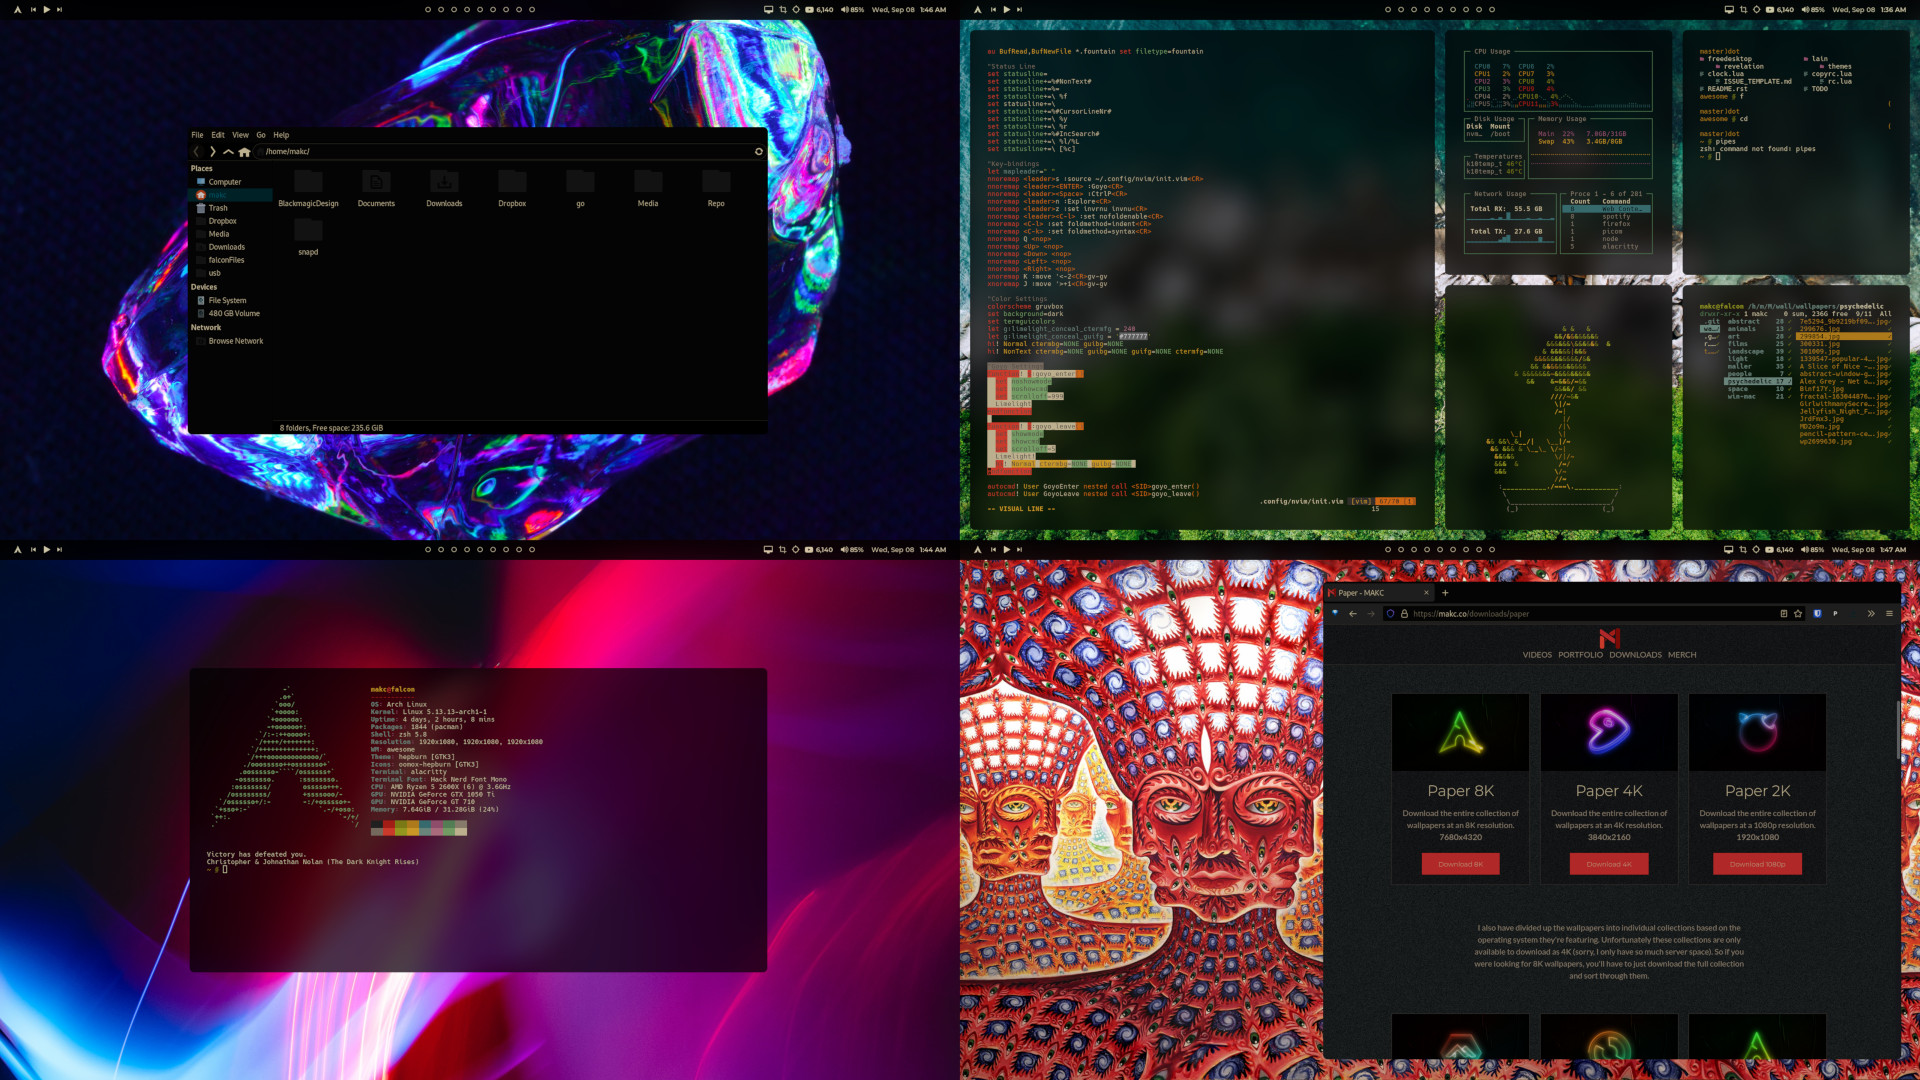
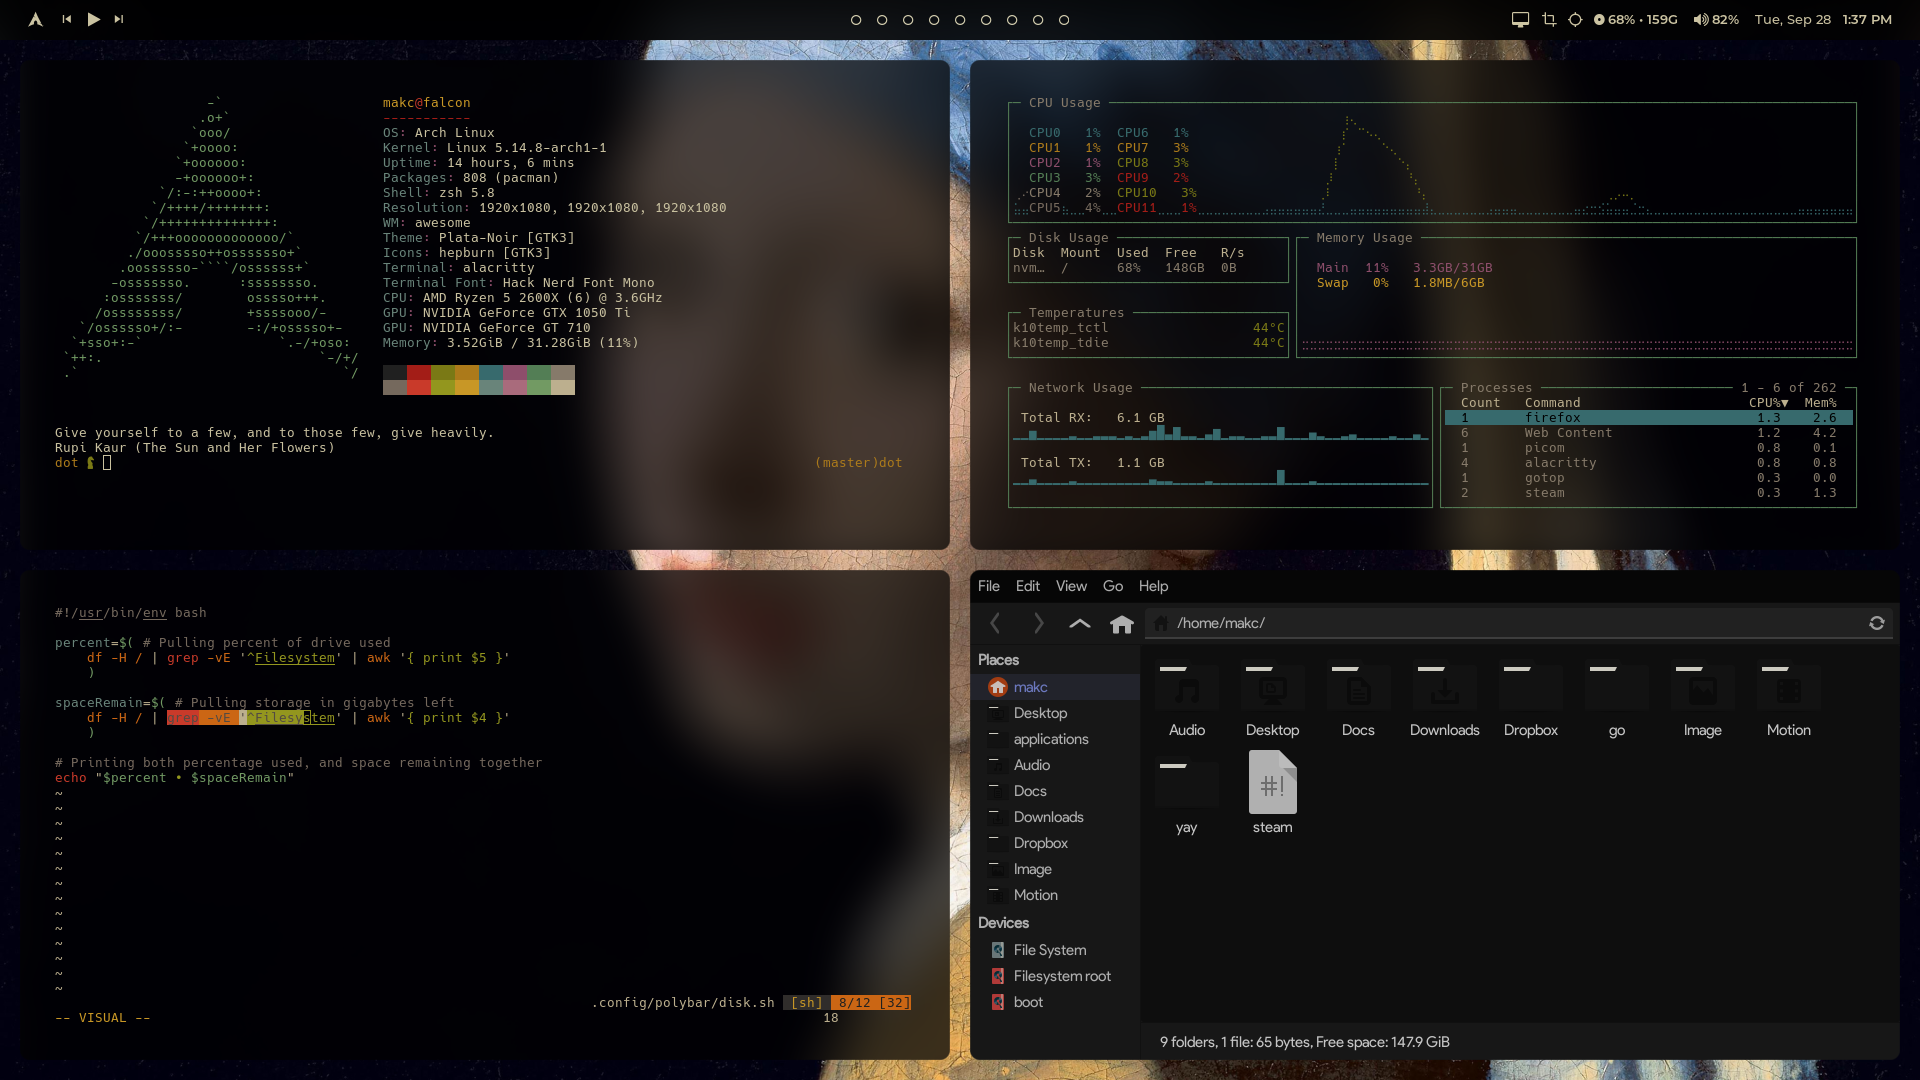
Updating preview image, neofetch info

diff --git a/README.md b/README.md
@@ -23,25 +23,25 @@ Currently, my main system is Arch Linux running on a Ryzen 5 2600X (6-core) CPU 
                    -`                    makc@falcon
                   .o+`                   -----------
                  `ooo/                   OS: Arch Linux
-                `+oooo:                  Kernel: Linux 5.12.10-arch1-1
-               `+oooooo:                 Uptime: 22 hours, 16 mins
-               -+oooooo+:                Packages: 1021 (pacman)
+                `+oooo:                  Kernel: Linux 5.14.8-arch1-1
+               `+oooooo:                 Uptime: 14 hours, 6 mins
+               -+oooooo+:                Packages: 808 (pacman)
              `/:-:++oooo+:               Shell: zsh 5.8
             `/++++/+++++++:              Resolution: 1920x1080, 1920x1080, 1920x1080
            `/++++++++++++++:             WM: awesome
-          `/+++ooooooooooooo/`           Theme: hepburn [GTK3]
-         ./ooosssso++osssssso+`          Icons: candy-icons [GTK3]
+          `/+++ooooooooooooo/`           Theme: Plata-Noir [GTK3]
+         ./ooosssso++osssssso+`          Icons: hepburn [GTK3]
         .oossssso-````/ossssss+`         Terminal: alacritty
        -osssssso.      :ssssssso.        Terminal Font: Hack Nerd Font Mono
       :osssssss/        osssso+++.       CPU: AMD Ryzen 5 2600X (6) @ 3.6GHz
      /ossssssss/        +ssssooo/-       GPU: NVIDIA GeForce GTX 1050 Ti
-   `/ossssso+/:-        -:/+osssso+-     Memory: 3.07GiB / 31.28GiB (9%)
-  `+sso+:-`                 `.-/+oso:
+   `/ossssso+/:-        -:/+osssso+-     GPU: NVIDIA GeForce GT 710
+  `+sso+:-`                 `.-/+oso:    Memory: 3.52GiB / 31.28GiB (11%)
  `++:.                           `-/+/
  .`                                 `/
 ```
 
-![Screenshot](https://raw.githubusercontent.com/makccr/dot/master/images/desktop.jpg)
+![Screenshot](images/desktop.jpg)
 
 ### Suckless
 I do also store my builds of the [suckless apps](https://suckless.org/) that I use, they are just moved into their own [separate repository](https://github.com/makccr/suckless).
